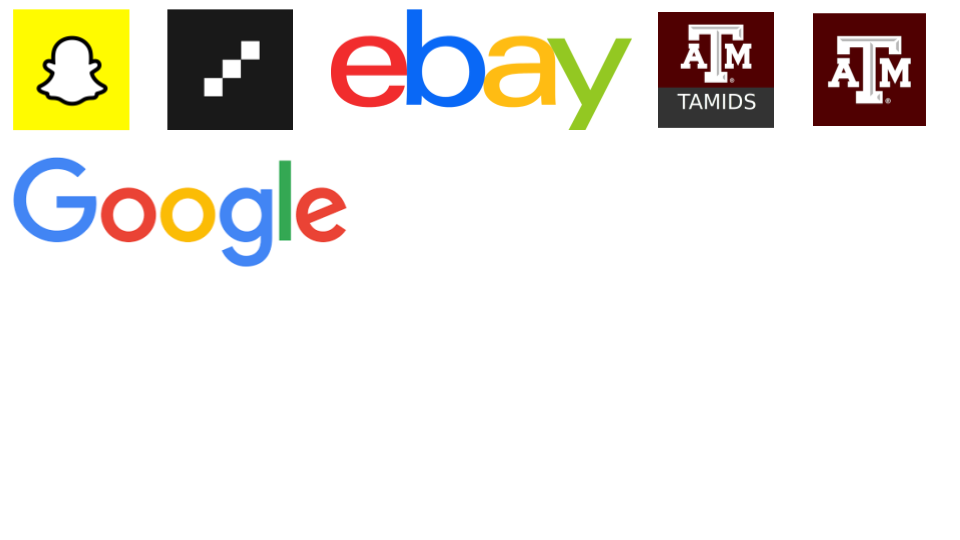
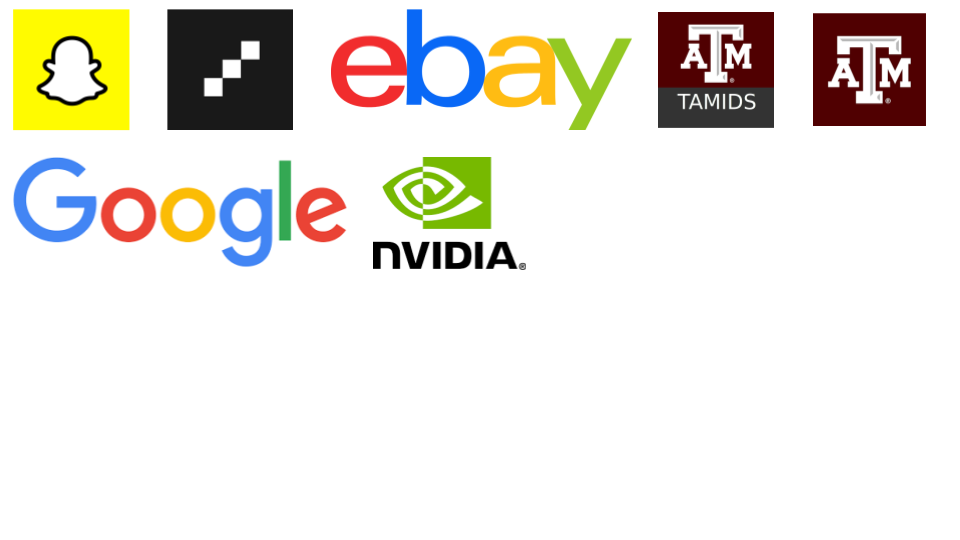
update

Changed region(s): [[0.375, 0.2667, 0.5625, 0.5037]]

diff --git a/index.html b/index.html
@@ -341,6 +341,12 @@
                                <li>Dr. Tu will give an invited talk at 2COOOL workshop with ICCV 2025.</li>
                             </ul>
 
+                            <b style="color:rgb(40, 40, 40)">[Sep 2025]</b>
+                            <ul style="margin-bottom:5px">
+                               <li>Grateful to receive the 2025 Nvidia Academic Grant Award! </li>
+                                <li>Dr. Tu gave multiple invited talks at GMU, UMD, and UDel </li>
+                            </ul>
+
                             <b style="color:rgb(40, 40, 40)">[Aug 2025]</b>
                             <ul style="margin-bottom:5px">
                                 <li>Dr. Tu will serve as Area Chair for ICLR 2026!</li>
